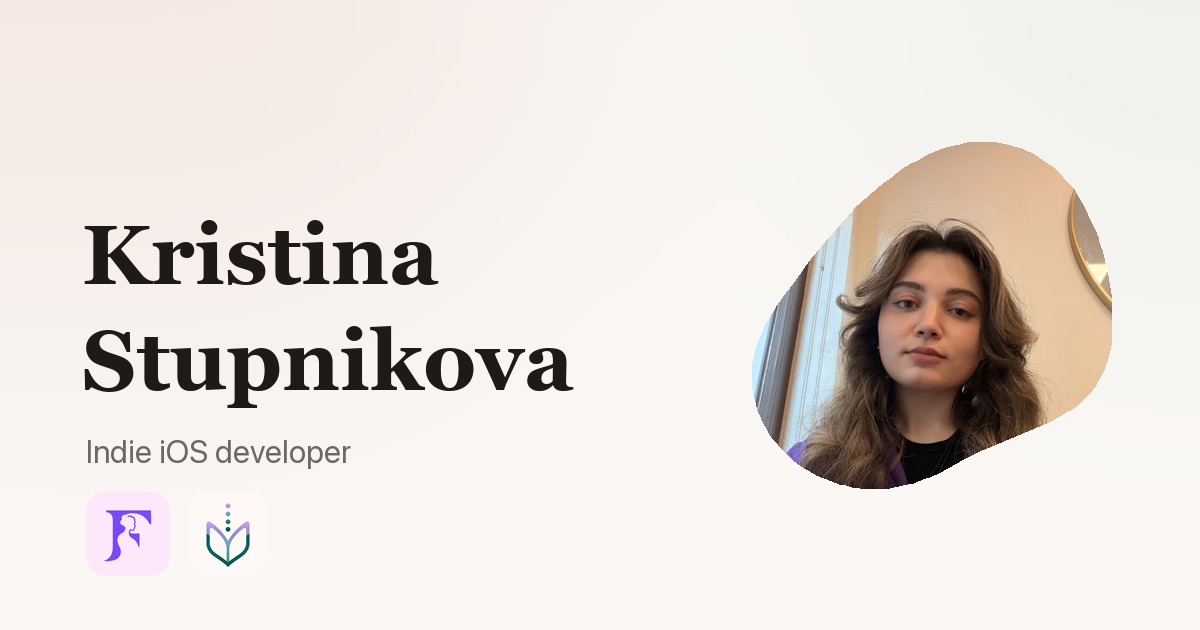
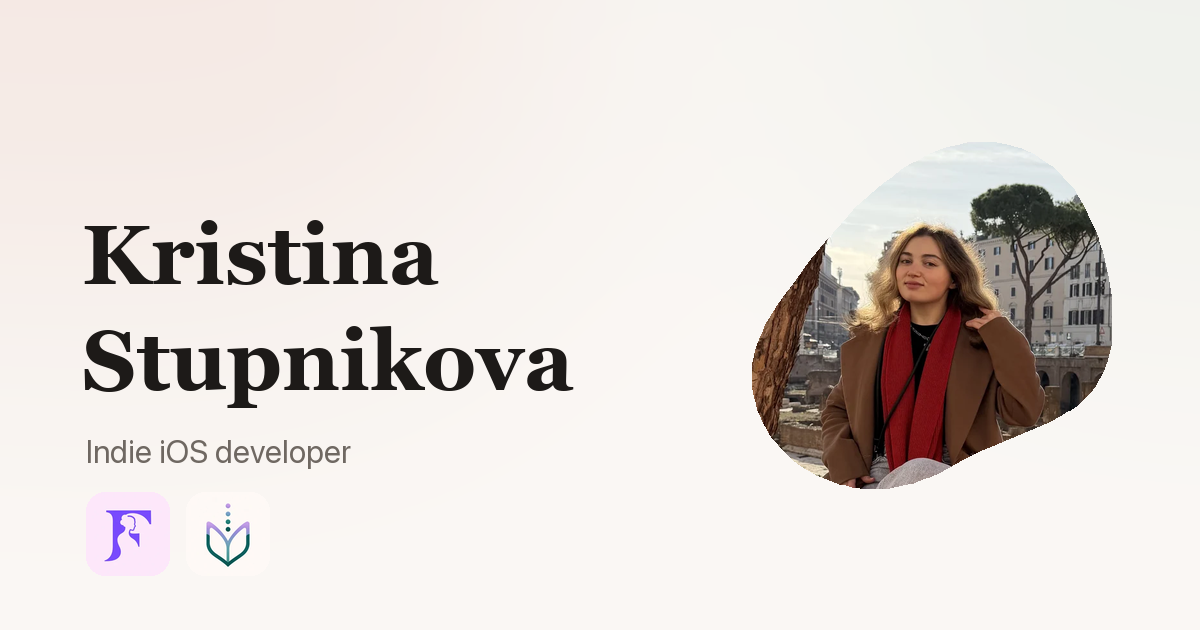
Keep Rome, and version the images too
Back to the Rome photo, restored from the commit that added it rather
than re-cropped, so it is byte-identical to what she approved. Open
Graph card rebuilt from it.

The "photo hasn't changed" was the cache, not the deploy: the file on
the server already matched the one on disk, md5 for md5. Images were
the only assets without a version in the URL, and since their
filenames never change there was nothing to tell a browser the bytes
had moved. Ten minutes of looking at a stale portrait is
indistinguishable from a broken deploy.

Every asset URL now carries ?v= — images, favicon, the OG card and the
data-src pairs the language switch swaps in. Bumped to v=4.

Changed region(s): [[0.6167, 0.2111, 0.925, 0.7841]]

diff --git a/index.html b/index.html
@@ -11,19 +11,19 @@
 <meta property="og:type" content="website">
 <meta property="og:title" content="Kristina Stupnikova — Indie iOS developer">
 <meta property="og:description" content="I build small apps that solve problems I actually care about.">
-<meta property="og:image" content="https://krispo95.github.io/assets/og.png">
+<meta property="og:image" content="https://krispo95.github.io/assets/og.png?v=4">
 <meta property="og:url" content="https://krispo95.github.io/">
 <meta name="twitter:card" content="summary_large_image">
 
 <link rel="alternate" hreflang="en" href="https://krispo95.github.io/?lang=en">
 <link rel="alternate" hreflang="ru" href="https://krispo95.github.io/?lang=ru">
 <link rel="alternate" hreflang="x-default" href="https://krispo95.github.io/">
-<link rel="icon" href="assets/favicon.svg" type="image/svg+xml">
-<link rel="apple-touch-icon" href="assets/apple-touch-icon.png">
+<link rel="icon" href="assets/favicon.svg?v=4" type="image/svg+xml">
+<link rel="apple-touch-icon" href="assets/apple-touch-icon.png?v=4">
 <link rel="preconnect" href="https://fonts.googleapis.com">
 <link rel="preconnect" href="https://fonts.gstatic.com" crossorigin>
 <link rel="stylesheet" href="https://fonts.googleapis.com/css2?family=Caveat:wght@500&family=Playfair+Display:wght@500;600&display=swap">
-<link rel="stylesheet" href="styles.css?v=3">
+<link rel="stylesheet" href="styles.css?v=4">
 </head>
 <body>
 
@@ -78,7 +78,7 @@
   <section class="hero">
     <div class="hero__photo">
       <div class="avatar">
-        <img src="assets/kristina.webp" alt="Kristina Stupnikova" width="560" height="540" fetchpriority="high" decoding="async">
+        <img src="assets/kristina.webp?v=4" alt="Kristina Stupnikova" width="560" height="540" fetchpriority="high" decoding="async">
       </div>
       <p class="note">
         <svg class="note__arrow" aria-hidden="true"><use href="#i-squiggle"/></svg>
@@ -104,7 +104,7 @@
 
   <article class="card card--formora">
     <div class="card__head">
-      <img class="card__icon" src="assets/formora-icon.webp" alt="" width="256" height="256" loading="lazy" decoding="async">
+      <img class="card__icon" src="assets/formora-icon.webp?v=4" alt="" width="256" height="256" loading="lazy" decoding="async">
       <div>
         <h3 class="card__name">Formora</h3>
         <p class="card__sub" data-i18n="formora.sub">A smart body tracker</p>
@@ -123,14 +123,14 @@
       </a>
     </div>
     <div class="shots" aria-hidden="true">
-      <div class="phone phone--b"><img src="assets/formora-2.en.webp" data-src-en="assets/formora-2.en.webp" data-src-ru="assets/formora-2.ru.webp" alt="" width="440" height="700" loading="lazy" decoding="async"></div>
-      <div class="phone phone--a"><img src="assets/formora-1.en.webp" data-src-en="assets/formora-1.en.webp" data-src-ru="assets/formora-1.ru.webp" alt="" width="440" height="700" loading="lazy" decoding="async"></div>
+      <div class="phone phone--b"><img src="assets/formora-2.en.webp?v=4" data-src-en="assets/formora-2.en.webp?v=4" data-src-ru="assets/formora-2.ru.webp?v=4" alt="" width="440" height="700" loading="lazy" decoding="async"></div>
+      <div class="phone phone--a"><img src="assets/formora-1.en.webp?v=4" data-src-en="assets/formora-1.en.webp?v=4" data-src-ru="assets/formora-1.ru.webp?v=4" alt="" width="440" height="700" loading="lazy" decoding="async"></div>
     </div>
   </article>
 
   <article class="card card--medistory">
     <div class="card__head">
-      <img class="card__icon" src="assets/medistory-icon.webp" alt="" width="256" height="256" loading="lazy" decoding="async">
+      <img class="card__icon" src="assets/medistory-icon.webp?v=4" alt="" width="256" height="256" loading="lazy" decoding="async">
       <div>
         <h3 class="card__name">Medistory</h3>
         <p class="card__sub" data-i18n="medistory.sub">Everything your doctor needs to know</p>
@@ -149,8 +149,8 @@
       </a>
     </div>
     <div class="shots" aria-hidden="true">
-      <div class="phone phone--b"><img src="assets/medistory-2.en.webp" data-src-en="assets/medistory-2.en.webp" data-src-ru="assets/medistory-2.ru.webp" alt="" width="440" height="700" loading="lazy" decoding="async"></div>
-      <div class="phone phone--a"><img src="assets/medistory-1.en.webp" data-src-en="assets/medistory-1.en.webp" data-src-ru="assets/medistory-1.ru.webp" alt="" width="440" height="700" loading="lazy" decoding="async"></div>
+      <div class="phone phone--b"><img src="assets/medistory-2.en.webp?v=4" data-src-en="assets/medistory-2.en.webp?v=4" data-src-ru="assets/medistory-2.ru.webp?v=4" alt="" width="440" height="700" loading="lazy" decoding="async"></div>
+      <div class="phone phone--a"><img src="assets/medistory-1.en.webp?v=4" data-src-en="assets/medistory-1.en.webp?v=4" data-src-ru="assets/medistory-1.ru.webp?v=4" alt="" width="440" height="700" loading="lazy" decoding="async"></div>
     </div>
   </article>
 
@@ -177,6 +177,6 @@
 
 <footer class="foot"><span data-i18n="foot">Made by Kristina Stupnikova</span> ♡</footer>
 
-<script src="app.js?v=3" defer></script>
+<script src="app.js?v=4" defer></script>
 </body>
 </html>

diff --git a/README.md b/README.md
@@ -134,9 +134,16 @@ included. For ten minutes after a deploy a returning visitor keeps the old
 copy — and can end up with new HTML against a stale `app.js`, which breaks in
 confusing ways rather than just looking out of date.
 
-So `index.html` links `styles.css?v=N` and `app.js?v=N`. **Raise N whenever you
-change either file.** A new query string is a new URL, so the moment the HTML
-refreshes it pulls the matching assets instead of the cached ones.
+So every asset URL in `index.html` carries `?v=N` — stylesheet, script,
+images, favicon, the Open Graph card, and the `data-src-en` / `data-src-ru`
+pairs the language switch uses. **Raise N whenever you change any of them.** A
+new query string is a new URL, so the moment the HTML refreshes it pulls the
+new file instead of the cached one.
+
+Images matter most here, because their filenames never change. Replace
+`kristina.webp` without bumping N and a returning visitor keeps the old
+portrait for ten minutes while the file on the server is already the new one —
+which looks exactly like a deploy that failed.
 
 If a change does not show up on the live page, that is this cache, not a broken
 deploy. Confirm with `curl https://krispo95.github.io/app.js | grep ...` — if
